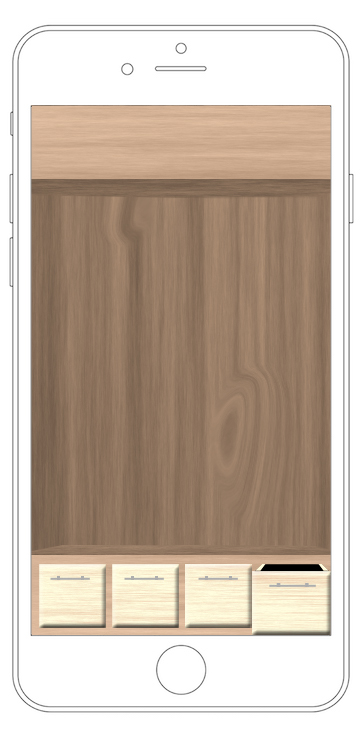
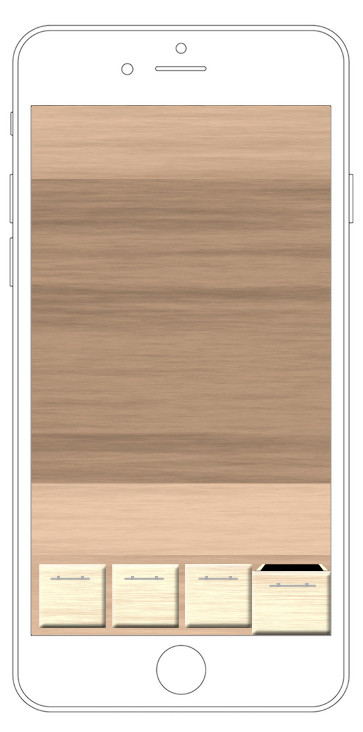
Profile Graphics

Changed region(s): [[0.0606, 0.2404, 0.9091, 0.7814]]

diff --git a/profile/profile-background.css b/profile/profile-background.css
@@ -1,5 +1,5 @@
 body {
-    background-image: url("../images/Profile.jpg");
+    background-image: url("../images/ProfileHomeMessage.jpg");
     background-repeat: no-repeat;
 }
 
